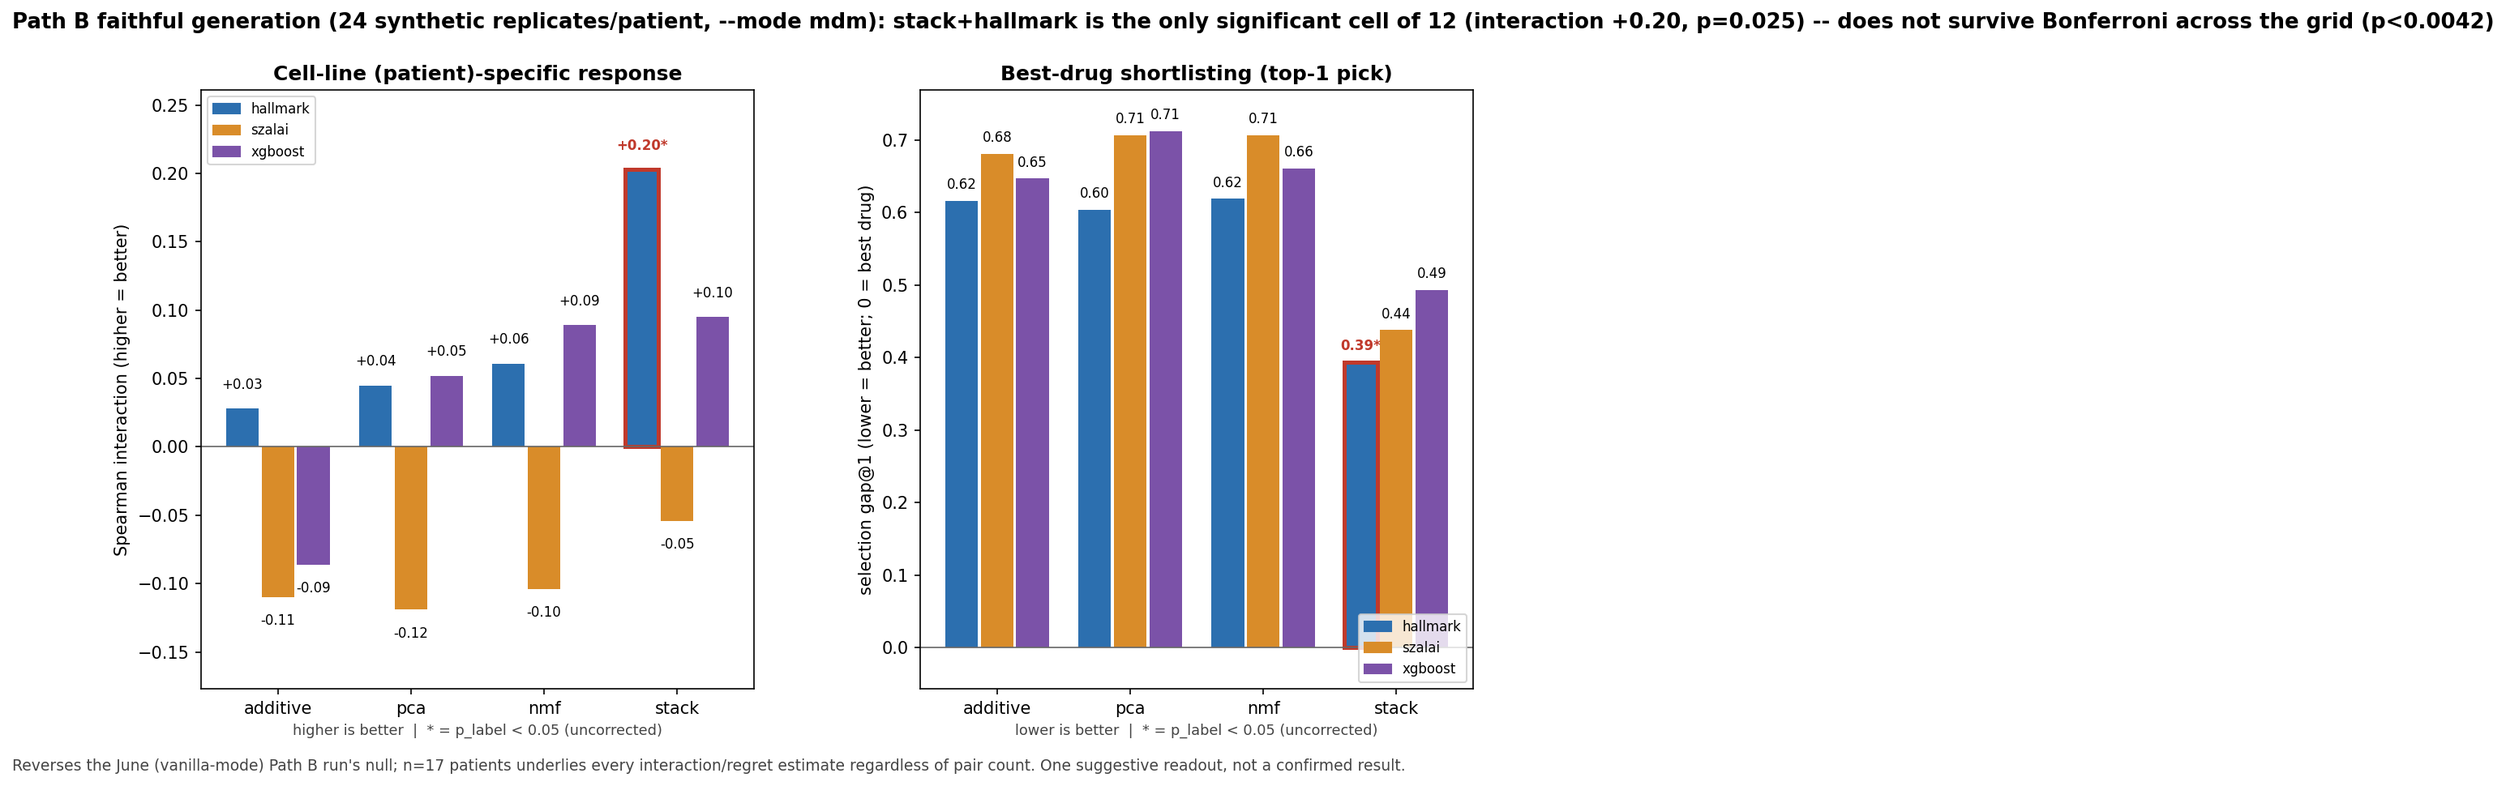
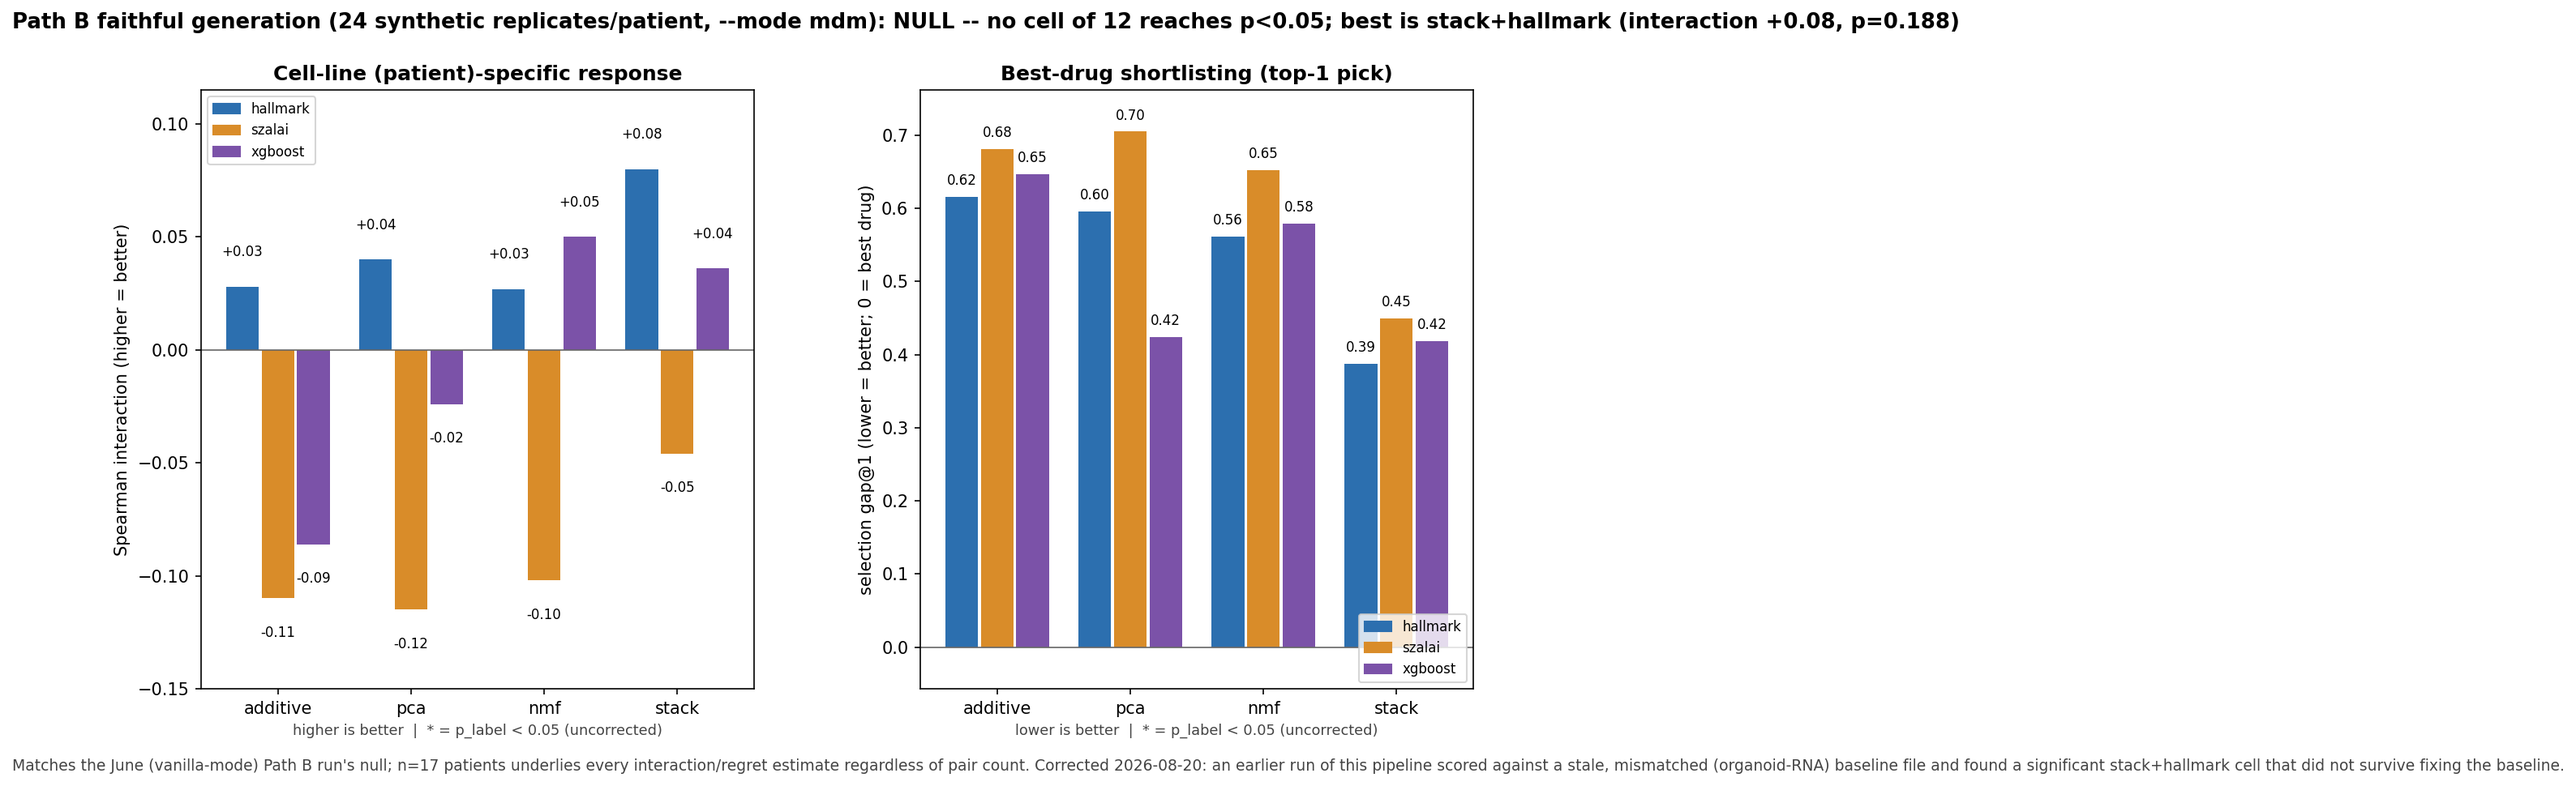
fix: correct Path B results/figure to the fixed-baseline rerun -- null, not significant
Re-ran 12_soragni_score.sbatch after fixing the stack_input_soragni.h5ad -> _sarcoma.h5ad
baseline bug (8b22c3c). The corrected grid has NO significant cell (best is
stack+hallmark, interaction +0.08, p=0.188) -- the earlier +0.20/p=0.025 finding was an
artifact of scoring against a mismatched organoid-RNA baseline. This null matches the
original June (vanilla-mode) Path B result, i.e. the faithful-generation procedure does
not, after all, reverse it. plot_soragni_pathb_summary.py's headline now branches on
whether any cell clears p<0.05 instead of hardcoding a significant-result phrasing.

diff --git a/scripts/plot_soragni_pathb_summary.py b/scripts/plot_soragni_pathb_summary.py
@@ -89,6 +89,7 @@ def main() -> None:
 
     df = pd.read_csv(args.results)
     best = df.loc[df["p_label"].idxmin()]
+    any_sig = bool((df["p_label"] < 0.05).any())
 
     fig = plt.figure(figsize=(13.5, 6.4), dpi=150)
     grid = fig.add_gridspec(1, 2, wspace=0.3)
@@ -113,11 +114,19 @@ def main() -> None:
         legend_loc="lower right",
     )
 
+    if any_sig:
+        headline = (
+            f"{best['source']}+{best['method']} is the only significant cell of 12 "
+            f"(interaction {best['interaction']:+.2f}, p={best['p_label']:.3f}) -- "
+            f"does not survive Bonferroni across the grid (p<{BONFERRONI:.4f})"
+        )
+    else:
+        headline = (
+            f"NULL -- no cell of 12 reaches p<0.05; best is {best['source']}+{best['method']} "
+            f"(interaction {best['interaction']:+.2f}, p={best['p_label']:.3f})"
+        )
     fig.suptitle(
-        f"Path B faithful generation (24 synthetic replicates/patient, --mode mdm): "
-        f"{best['source']}+{best['method']} is the only significant cell of 12 "
-        f"(interaction {best['interaction']:+.2f}, p={best['p_label']:.3f}) -- "
-        f"does not survive Bonferroni across the grid (p<{BONFERRONI:.4f})",
+        f"Path B faithful generation (24 synthetic replicates/patient, --mode mdm): {headline}",
         fontsize=12.5,
         fontweight="bold",
         x=0.01,
@@ -126,9 +135,10 @@ def main() -> None:
     fig.text(
         0.01,
         0.005,
-        "Reverses the June (vanilla-mode) Path B run's null; n=17 patients underlies every "
-        "interaction/regret estimate regardless of pair count. One suggestive readout, not a "
-        "confirmed result.",
+        "Matches the June (vanilla-mode) Path B run's null; n=17 patients underlies every "
+        "interaction/regret estimate regardless of pair count. Corrected 2026-08-20: an earlier "
+        "run of this pipeline scored against a stale, mismatched (organoid-RNA) baseline file "
+        "and found a significant stack+hallmark cell that did not survive fixing the baseline.",
         fontsize=9,
         color="#444444",
     )
